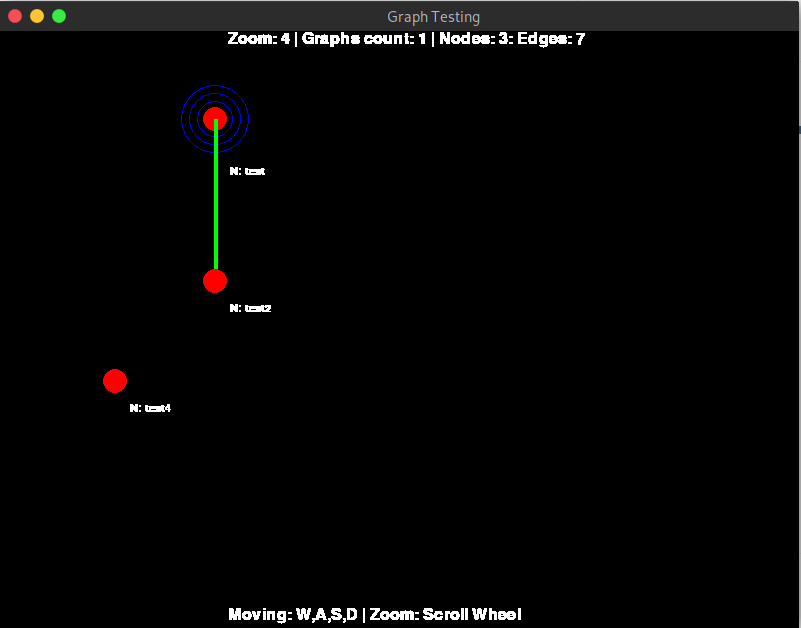
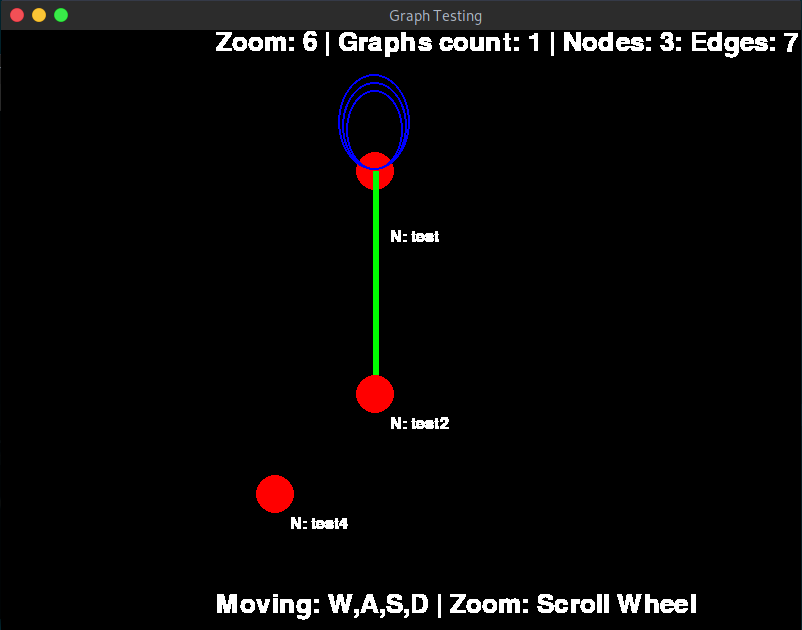
added loops/slings

diff --git a/Node.py b/Node.py
@@ -85,19 +85,24 @@ class Node:
         img = font.render(text, True, color)
         screen.blit(img, pos)
     
+    # Dot == Node "point" (the red Dot mostly)
     def drawDot(self, screen):
         color = self.color
         pos = self.getPos()
         dotSize = self.dotSize
         pg.draw.circle(screen, color, pos, int(round(dotSize*self.zoom)))
-        
+    
+    # Draws the connection either cirlce(s) or line
     def drawConnection(self, screen, connectedNode, i=0):
         color = self.connectedNodesColor
         pos = self.getPos()
         connectionWidth = self.connectionWidth
         if connectedNode is self:
-            #pg.draw.ellipse(screen, Colors.BLUE, pg.Rect((self.x-1.5,self.y-1.5), (3,3)))
-            pg.draw.circle(screen, Colors.BLUE, pos, int(round(10+(2*i+2)*self.zoom)), 1)
+            #print(pos.x, pos.y)
+            height = (50 + 5*i+2)*0.25*self.zoom
+            width = (35 + 5*i+2)*0.25*self.zoom
+            pg.draw.ellipse(screen, Colors.BLUE, pg.Rect((pos.x-(width/2), pos.y-height), (width,height)), 2)
+            #pg.draw.circle(screen, Colors.BLUE, pos, int(round(10+(2*i+2)*self.zoom)), 1) <--- old circles, if you want
         else:
             pg.draw.line(screen, color, pos, connectedNode.getPos(), int(round(connectionWidth*self.zoom)))
     
